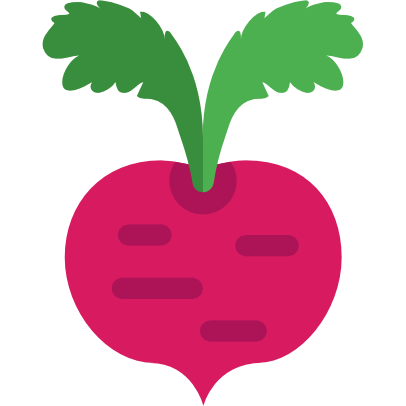
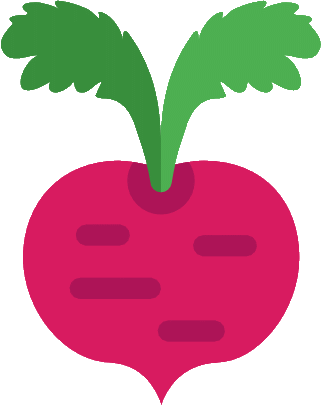
[QPN] ui minor changes

diff --git a/html/game.html b/html/game.html
@@ -2,7 +2,6 @@
 
 <a id='back' href="?page=level" class="fa fa-arrow-left"></a>
 
-
 <div id="game" class="col-6"></div>
 
 <div class="col-6">
@@ -66,4 +65,6 @@
 	<script src="js/index.js"></script>
 	<script src="js/coding.js"></script>
 	<script src="js/tutorial.js"></script>
+	<script src="src/codemirror/lib/codemirror.js"></script>
+	<script src="src/codemirror/mode/javascript/javascript.js"></script>
 </footer>

diff --git a/html/about.html b/html/about.html
@@ -4,7 +4,7 @@
 
 <div class="col-6 offset-3">
     <div class="text-center">
-        <img width="120" height="120" src="./src/img/beetroot.png">
+        <img width="120" src="./src/img/beetroot.png">
     </div>
 
     <br>

diff --git a/css/main.css b/css/main.css
@@ -9,6 +9,7 @@
 body{
 	margin-top: 5% !important;
 	text-align: center;
+	background: linear-gradient(to right, #c9d6ff, #e2e2e2);
 }
 
 #back{

diff --git a/css/menu.css b/css/menu.css
@@ -4,7 +4,6 @@ body{
 
 img{
 	width: 25% !important;
-	height: 25% !important;
 	pointer-events: none !important;
 }
 
